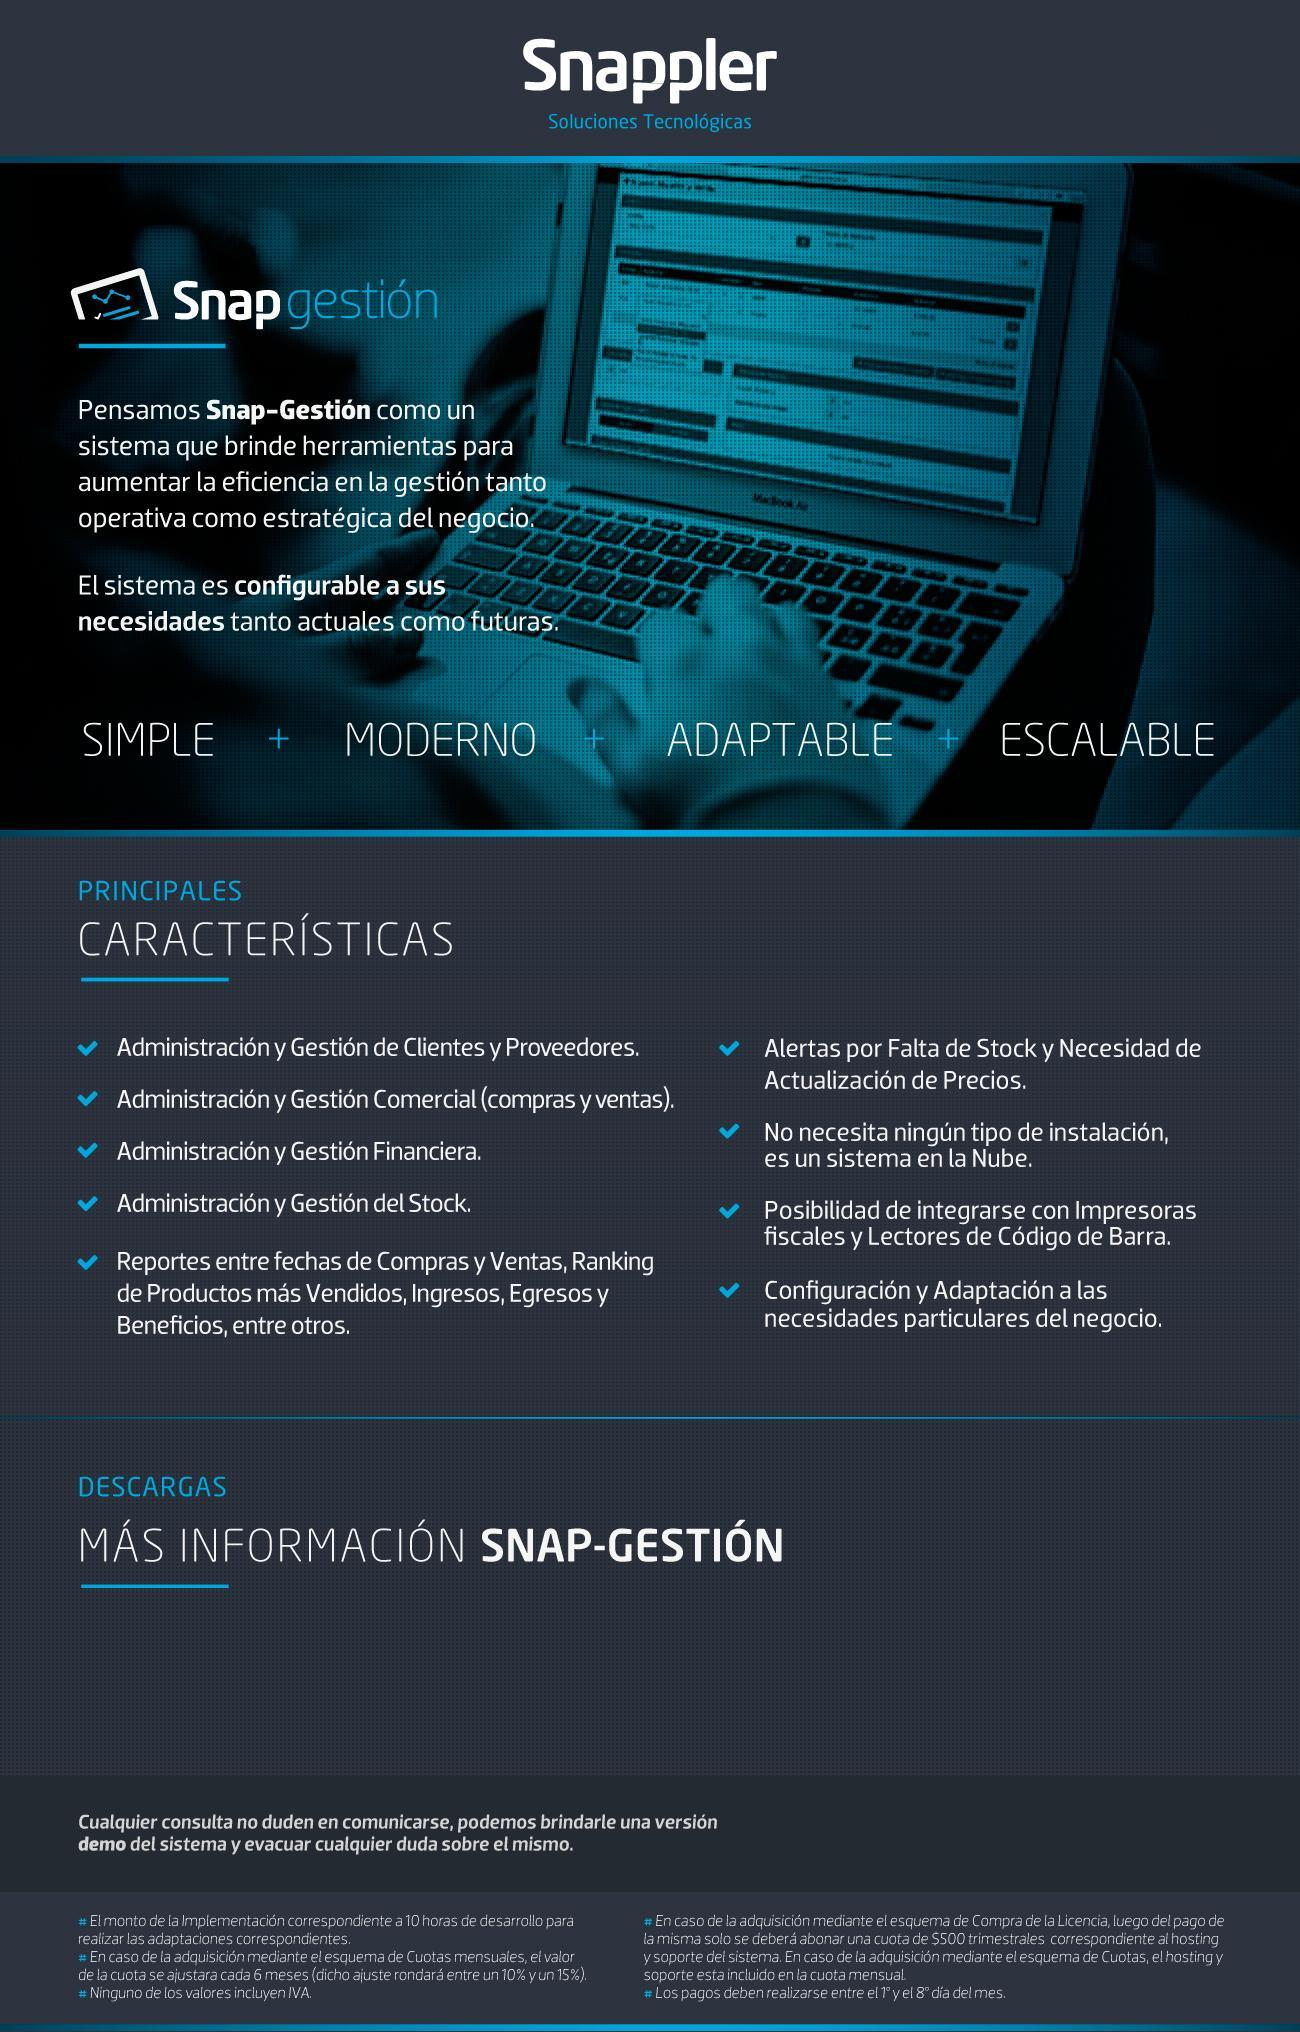
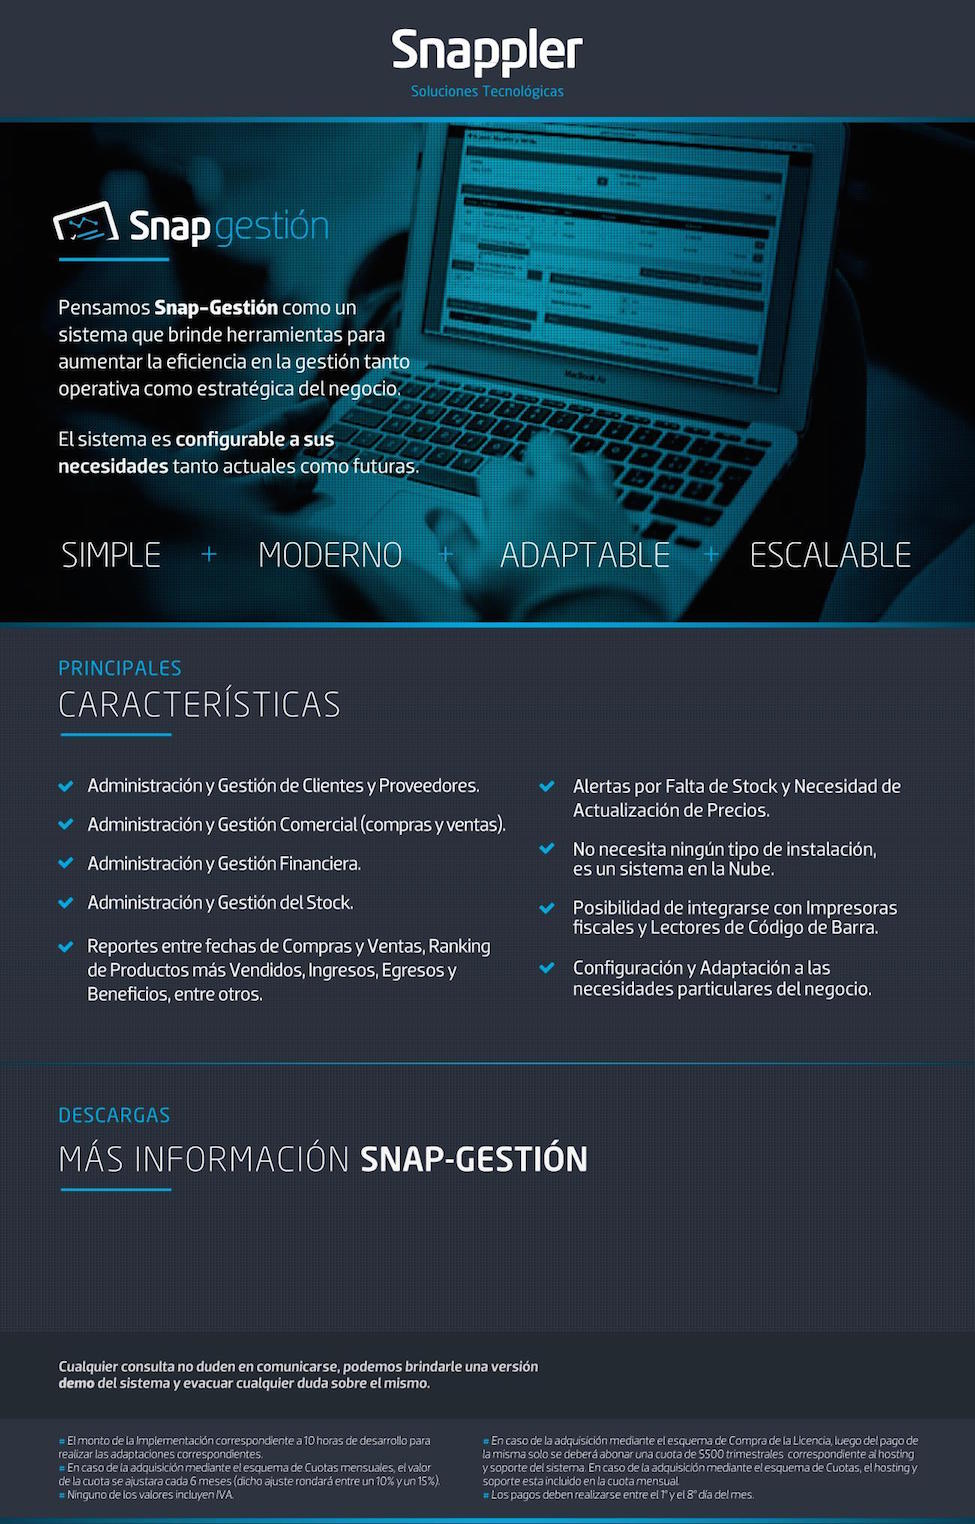
nuevo showroom de snap gestion

diff --git a/public/showroom/snap-gestion/index-alquiler.html b/public/showroom/snap-gestion/index-alquiler.html
@@ -6,12 +6,12 @@
 	<meta http-equiv="Content-Type" content="text/html; charset=UTF-8" />
 </head>
 
-<body  style="margin: 0px;background: #ccc; padding: 10px 10%;">
-	<div id="container" style="float:left; padding: 10px;background: #FFF;">
+<body  style="margin: 0px;background: #ccc; padding: 10px 0;">
+	<div id="container" style="padding: 10px; background: #FFF; width: 975px; height: 1524px; display: block; margin-left: auto; margin-right: auto;">
 	<img src="imgs/fondo_2.jpg"/>
-	<a href="http://www.snappler.com/showroom/snap-gestion/downloads/descripcion.pdf" target="_blank"><img src="imgs/boton1.png" style="position: absolute; top: 1671px; left: 259px;"/></a>
-	<a href="http://www.snappler.com/showroom/snap-gestion/downloads/pantallas.pdf" target="_blank"><img src="imgs/boton2.png" style="position: absolute; top: 1671px; left: 959px;"/></a>
-	<a href="http://www.snappler.com" target="_blank"><img src="imgs/boton3.png" style="position: absolute; top: 1827px; left: 970px;"/></a>
+	<a href="http://www.snappler.com/showroom/snap-gestion/downloads/descripcion.pdf" target="_blank"><img src="imgs/boton1.png" style="position: relative; top: -282px; left: 58px;" /></a>
+	<a href="http://www.snappler.com/showroom/snap-gestion/downloads/pantallas.pdf" target="_blank"><img src="imgs/boton2.png" style="position: relative; top: -282px; left: 90px;"/></a>
+	<a href="http://www.snappler.com" target="_blank"><img src="imgs/boton3.png" style="position: relative; top: -172px; left: -80px;"/></a>
 </div>
 </body>
 </html>

diff --git a/public/showroom/snap-gestion/index.html b/public/showroom/snap-gestion/index.html
@@ -6,12 +6,12 @@
 	<meta http-equiv="Content-Type" content="text/html; charset=UTF-8" />
 </head>
 
-<body  style="margin: 0px;background: #ccc; padding: 10px 10%;">
-	<div id="container" style="float:left; padding: 10px;background: #FFF;">
+<body  style="margin: 0px;background: #ccc; padding: 10px 0;">
+	<div id="container" style="padding: 10px; background: #FFF; width: 975px; height: 1524px; display: block; margin-left: auto; margin-right: auto;">
 	<img src="imgs/fondo_1.jpg"/>
-	<a href="http://www.snappler.com/showroom/snap-gestion/downloads/descripcion.pdf" target="_blank"><img src="imgs/boton1.png" style="position: absolute; top: 1671px; left: 259px;"/></a>
-	<a href="http://www.snappler.com/showroom/snap-gestion/downloads/pantallas.pdf" target="_blank"><img src="imgs/boton2.png" style="position: absolute; top: 1671px; left: 959px;"/></a>
-	<a href="http://www.snappler.com" target="_blank"><img src="imgs/boton3.png" style="position: absolute; top: 1827px; left: 970px;"/></a>
+	<a href="http://www.snappler.com/showroom/snap-gestion/downloads/descripcion.pdf" target="_blank"><img src="imgs/boton1.png" style="position: relative; top: -282px; left: 58px;" /></a>
+	<a href="http://www.snappler.com/showroom/snap-gestion/downloads/pantallas.pdf" target="_blank"><img src="imgs/boton2.png" style="position: relative; top: -282px; left: 90px;"/></a>
+	<a href="http://www.snappler.com" target="_blank"><img src="imgs/boton3.png" style="position: relative; top: -172px; left: -80px;"/></a>
 </div>
 </body>
 </html>
